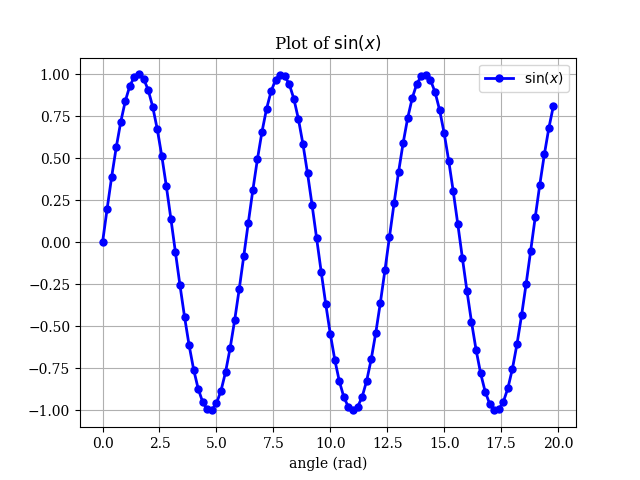
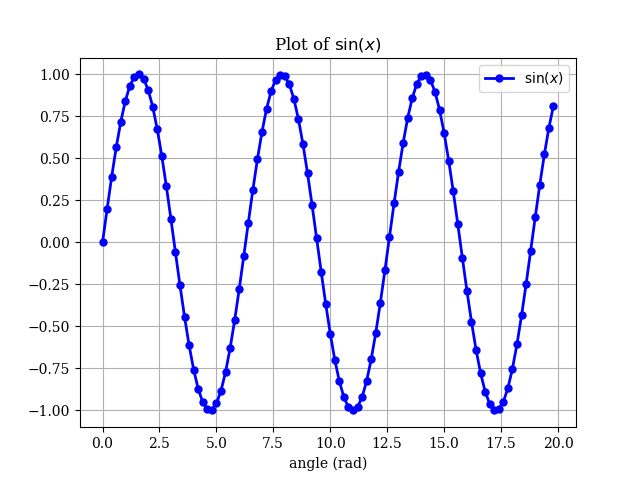
Loading data and plotting a subset. It's a lot of data so don't plot everything at once.

diff --git a/ChapterSeven/windSpeed.py b/ChapterSeven/windSpeed.py
@@ -1,0 +1,22 @@
+#!/usr/bin/env python
+import matplotlib
+import matplotlib.pyplot as plt
+import numpy as np
+matplotlib.rcParams["font.family"] = "Serif"
+matplotlib.rcParams["font.size"] = 10
+matplotlib.rcParams["axes.labelsize"] = 10
+matplotlib.rcParams["xtick.labelsize"] = 10
+matplotlib.rcParams["ytick.labelsize"] = 10
+matplotlib.rcParams["legend.fontsize"] = 10
+fig = plt.figure(facecolor="white")
+ax = fig.add_subplot(1, 1, 1)
+ax.grid()
+ax.set_axisbelow(True)
+ax.set_xlabel("index")
+ax.set_title("TestPlot")
+x = np.array([0.9669400000000000E+05,0.9669500000000000E+05,0.9669600000000000E+05,0.9669700000000000E+05,0.9669800000000000E+05,0.9669900000000000E+05,0.9670000000000000E+05,0.9670100000000000E+05,0.9670200000000000E+05,0.9670300000000000E+05,0.9670400000000000E+05,0.9670500000000000E+05,0.9670600000000000E+05,0.9670700000000000E+05,0.9670800000000000E+05,0.9670900000000000E+05,0.9671000000000000E+05,0.9671100000000000E+05,0.9671200000000000E+05,0.9671300000000000E+05,0.9671400000000000E+05,0.9671500000000000E+05,0.9671600000000000E+05,0.9671700000000000E+05,0.9671800000000000E+05,0.9671900000000000E+05,0.9672000000000000E+05,0.9672100000000000E+05,0.9672200000000000E+05,0.9672300000000000E+05,0.9672400000000000E+05,0.9672500000000000E+05,0.9672600000000000E+05,0.9672700000000000E+05,0.9672800000000000E+05,0.9672900000000000E+05,0.9673000000000000E+05,0.9673100000000000E+05,0.9673200000000000E+05,0.9673300000000000E+05,0.9673400000000000E+05,0.9673500000000000E+05,0.9673600000000000E+05,0.9673700000000000E+05,0.9673800000000000E+05,0.9673900000000000E+05,0.9674000000000000E+05,0.9674100000000000E+05,0.9674200000000000E+05,0.9674300000000000E+05,0.9674400000000000E+05,0.9674500000000000E+05,0.9674600000000000E+05,0.9674700000000000E+05,0.9674800000000000E+05,0.9674900000000000E+05,0.9675000000000000E+05,0.9675100000000000E+05,0.9675200000000000E+05,0.9675300000000000E+05,0.9675400000000000E+05,0.9675500000000000E+05,0.9675600000000000E+05,0.9675700000000000E+05,0.9675800000000000E+05,0.9675900000000000E+05,0.9676000000000000E+05,0.9676100000000000E+05,0.9676200000000000E+05,0.9676300000000000E+05,0.9676400000000000E+05,0.9676500000000000E+05,0.9676600000000000E+05,0.9676700000000000E+05,0.9676800000000000E+05,0.9676900000000000E+05,0.9677000000000000E+05,0.9677100000000000E+05,0.9677200000000000E+05,0.9677300000000000E+05,0.9677400000000000E+05,0.9677500000000000E+05,0.9677600000000000E+05,0.9677700000000000E+05,0.9677800000000000E+05,0.9677900000000000E+05,0.9678000000000000E+05,0.9678100000000000E+05,0.9678200000000000E+05,0.9678300000000000E+05,0.9678400000000000E+05,0.9678500000000000E+05,0.9678600000000000E+05,0.9678700000000000E+05,0.9678800000000000E+05,0.9678900000000000E+05,0.9679000000000000E+05,0.9679100000000000E+05,0.9679200000000000E+05,0.9679300000000000E+05,0.9679400000000000E+05,0.9679500000000000E+05,0.9679600000000000E+05,0.9679700000000000E+05,0.9679800000000000E+05,0.9679900000000000E+05,0.9680000000000000E+05,0.9680100000000000E+05,0.9680200000000000E+05,0.9680300000000000E+05,0.9680400000000000E+05,0.9680500000000000E+05,0.9680600000000000E+05,0.9680700000000000E+05,0.9680800000000000E+05,0.9680900000000000E+05,0.9681000000000000E+05,0.9681100000000000E+05,0.9681200000000000E+05,0.9681300000000000E+05,0.9681400000000000E+05,0.9681500000000000E+05,0.9681600000000000E+05,0.9681700000000000E+05,0.9681800000000000E+05,0.9681900000000000E+05,0.9682000000000000E+05,0.9682100000000000E+05,0.9682200000000000E+05,0.9682300000000000E+05,0.9682400000000000E+05,0.9682500000000000E+05,0.9682600000000000E+05,0.9682700000000000E+05,0.9682800000000000E+05,0.9682900000000000E+05,0.9683000000000000E+05,0.9683100000000000E+05,0.9683200000000000E+05,0.9683300000000000E+05,0.9683400000000000E+05,0.9683500000000000E+05,0.9683600000000000E+05,0.9683700000000000E+05,0.9683800000000000E+05,0.9683900000000000E+05,0.9684000000000000E+05,0.9684100000000000E+05,0.9684200000000000E+05,0.9684300000000000E+05,0.9684400000000000E+05,0.9684500000000000E+05,0.9684600000000000E+05,0.9684700000000000E+05,0.9684800000000000E+05,0.9684900000000000E+05,0.9685000000000000E+05,0.9685100000000000E+05,0.9685200000000000E+05,0.9685300000000000E+05,0.9685400000000000E+05,0.9685500000000000E+05,0.9685600000000000E+05,0.9685700000000000E+05,0.9685800000000000E+05,0.9685900000000000E+05,0.9686000000000000E+05,0.9686100000000000E+05,0.9686200000000000E+05,0.9686300000000000E+05,0.9686400000000000E+05,0.9686500000000000E+05,0.9686600000000000E+05,0.9686700000000000E+05,0.9686800000000000E+05,0.9686900000000000E+05,0.9687000000000000E+05,0.9687100000000000E+05,0.9687200000000000E+05,0.9687300000000000E+05,0.9687400000000000E+05,0.9687500000000000E+05,0.9687600000000000E+05,0.9687700000000000E+05,0.9687800000000000E+05,0.9687900000000000E+05,0.9688000000000000E+05,0.9688100000000000E+05,0.9688200000000000E+05,0.9688300000000000E+05,0.9688400000000000E+05,0.9688500000000000E+05,0.9688600000000000E+05,0.9688700000000000E+05,0.9688800000000000E+05,0.9688900000000000E+05,0.9689000000000000E+05,0.9689100000000000E+05,0.9689200000000000E+05,0.9689300000000000E+05,0.9689400000000000E+05,0.9689500000000000E+05,0.9689600000000000E+05,0.9689700000000000E+05,0.9689800000000000E+05,0.9689900000000000E+05,0.9690000000000000E+05,0.9690100000000000E+05,0.9690200000000000E+05,0.9690300000000000E+05,0.9690400000000000E+05,0.9690500000000000E+05,0.9690600000000000E+05,0.9690700000000000E+05,0.9690800000000000E+05,0.9690900000000000E+05,0.9691000000000000E+05,0.9691100000000000E+05,0.9691200000000000E+05,0.9691300000000000E+05,0.9691400000000000E+05,0.9691500000000000E+05,0.9691600000000000E+05,0.9691700000000000E+05,0.9691800000000000E+05,0.9691900000000000E+05,0.9692000000000000E+05,0.9692100000000000E+05,0.9692200000000000E+05,0.9692300000000000E+05,0.9692400000000000E+05,0.9692500000000000E+05,0.9692600000000000E+05,0.9692700000000000E+05,0.9692800000000000E+05,0.9692900000000000E+05,0.9693000000000000E+05,0.9693100000000000E+05,0.9693200000000000E+05,0.9693300000000000E+05,0.9693400000000000E+05,0.9693500000000000E+05,0.9693600000000000E+05,0.9693700000000000E+05,0.9693800000000000E+05,0.9693900000000000E+05,0.9694000000000000E+05,0.9694100000000000E+05,0.9694200000000000E+05,0.9694300000000000E+05,0.9694400000000000E+05,0.9694500000000000E+05,0.9694600000000000E+05,0.9694700000000000E+05,0.9694800000000000E+05,0.9694900000000000E+05,0.9695000000000000E+05,0.9695100000000000E+05,0.9695200000000000E+05,0.9695300000000000E+05,0.9695400000000000E+05,0.9695500000000000E+05,0.9695600000000000E+05,0.9695700000000000E+05,0.9695800000000000E+05,0.9695900000000000E+05,0.9696000000000000E+05,0.9696100000000000E+05,0.9696200000000000E+05,0.9696300000000000E+05,0.9696400000000000E+05,0.9696500000000000E+05,0.9696600000000000E+05,0.9696700000000000E+05,0.9696800000000000E+05,0.9696900000000000E+05,0.9697000000000000E+05,0.9697100000000000E+05,0.9697200000000000E+05,0.9697300000000000E+05,0.9697400000000000E+05,0.9697500000000000E+05,0.9697600000000000E+05,0.9697700000000000E+05,0.9697800000000000E+05,0.9697900000000000E+05,0.9698000000000000E+05,0.9698100000000000E+05,0.9698200000000000E+05,0.9698300000000000E+05,0.9698400000000000E+05,0.9698500000000000E+05,0.9698600000000000E+05,0.9698700000000000E+05,0.9698800000000000E+05,0.9698900000000000E+05,0.9699000000000000E+05,0.9699100000000000E+05,0.9699200000000000E+05,0.9699300000000000E+05,0.9699400000000000E+05,0.9699500000000000E+05,0.9699600000000000E+05,0.9699700000000000E+05,0.9699800000000000E+05,0.9699900000000000E+05,0.9700000000000000E+05,0.9700100000000000E+05,0.9700200000000000E+05,0.9700300000000000E+05,0.9700400000000000E+05,0.9700500000000000E+05,0.9700600000000000E+05,0.9700700000000000E+05,0.9700800000000000E+05,0.9700900000000000E+05,0.9701000000000000E+05,0.9701100000000000E+05,0.9701200000000000E+05,0.9701300000000000E+05,0.9701400000000000E+05,0.9701500000000000E+05,0.9701600000000000E+05,0.9701700000000000E+05,0.9701800000000000E+05,0.9701900000000000E+05,0.9702000000000000E+05,0.9702100000000000E+05,0.9702200000000000E+05,0.9702300000000000E+05,0.9702400000000000E+05,0.9702500000000000E+05,0.9702600000000000E+05,0.9702700000000000E+05,0.9702800000000000E+05,0.9702900000000000E+05,0.9703000000000000E+05,0.9703100000000000E+05,0.9703200000000000E+05,0.9703300000000000E+05,0.9703400000000000E+05,0.9703500000000000E+05,0.9703600000000000E+05,0.9703700000000000E+05,0.9703800000000000E+05,0.9703900000000000E+05,0.9704000000000000E+05,0.9704100000000000E+05,0.9704200000000000E+05,0.9704300000000000E+05,0.9704400000000000E+05,0.9704500000000000E+05,0.9704600000000000E+05,0.9704700000000000E+05,0.9704800000000000E+05,0.9704900000000000E+05,0.9705000000000000E+05,0.9705100000000000E+05,0.9705200000000000E+05,0.9705300000000000E+05,0.9705400000000000E+05,0.9705500000000000E+05,0.9705600000000000E+05,0.9705700000000000E+05,0.9705800000000000E+05,0.9705900000000000E+05,0.9706000000000000E+05,0.9706100000000000E+05,0.9706200000000000E+05,0.9706300000000000E+05,0.9706400000000000E+05,0.9706500000000000E+05,0.9706600000000000E+05,0.9706700000000000E+05,0.9706800000000000E+05,0.9706900000000000E+05,0.9707000000000000E+05,0.9707100000000000E+05,0.9707200000000000E+05,0.9707300000000000E+05,0.9707400000000000E+05,0.9707500000000000E+05,0.9707600000000000E+05,0.9707700000000000E+05,0.9707800000000000E+05,0.9707900000000000E+05,0.9708000000000000E+05,0.9708100000000000E+05,0.9708200000000000E+05,0.9708300000000000E+05,0.9708400000000000E+05,0.9708500000000000E+05,0.9708600000000000E+05,0.9708700000000000E+05,0.9708800000000000E+05,0.9708900000000000E+05,0.9709000000000000E+05,0.9709100000000000E+05,0.9709200000000000E+05,0.9709300000000000E+05,0.9709400000000000E+05,0.9709500000000000E+05,0.9709600000000000E+05,0.9709700000000000E+05,0.9709800000000000E+05,0.9709900000000000E+05,0.9710000000000000E+05,0.9710100000000000E+05,0.9710200000000000E+05,0.9710300000000000E+05,0.9710400000000000E+05,0.9710500000000000E+05,0.9710600000000000E+05,0.9710700000000000E+05,0.9710800000000000E+05,0.9710900000000000E+05,0.9711000000000000E+05,0.9711100000000000E+05,0.9711200000000000E+05,0.9711300000000000E+05,0.9711400000000000E+05,0.9711500000000000E+05,0.9711600000000000E+05,0.9711700000000000E+05,0.9711800000000000E+05,0.9711900000000000E+05,0.9712000000000000E+05,0.9712100000000000E+05,0.9712200000000000E+05,0.9712300000000000E+05,0.9712400000000000E+05,0.9712500000000000E+05,0.9712600000000000E+05,0.9712700000000000E+05,0.9712800000000000E+05,0.9712900000000000E+05,0.9713000000000000E+05,0.9713100000000000E+05,0.9713200000000000E+05,0.9713300000000000E+05,0.9713400000000000E+05,0.9713500000000000E+05,0.9713600000000000E+05,0.9713700000000000E+05,0.9713800000000000E+05,0.9713900000000000E+05,0.9714000000000000E+05,0.9714100000000000E+05,0.9714200000000000E+05,0.9714300000000000E+05,0.9714400000000000E+05,0.9714500000000000E+05,0.9714600000000000E+05,0.9714700000000000E+05,0.9714800000000000E+05,0.9714900000000000E+05,0.9715000000000000E+05,0.9715100000000000E+05,0.9715200000000000E+05,0.9715300000000000E+05,0.9715400000000000E+05,0.9715500000000000E+05,0.9715600000000000E+05,0.9715700000000000E+05,0.9715800000000000E+05,0.9715900000000000E+05,0.9716000000000000E+05,0.9716100000000000E+05,0.9716200000000000E+05,0.9716300000000000E+05,0.9716400000000000E+05,0.9716500000000000E+05,0.9716600000000000E+05,0.9716700000000000E+05,0.9716800000000000E+05,0.9716900000000000E+05,0.9717000000000000E+05,0.9717100000000000E+05,0.9717200000000000E+05,0.9717300000000000E+05,0.9717400000000000E+05,0.9717500000000000E+05,0.9717600000000000E+05,0.9717700000000000E+05,0.9717800000000000E+05,0.9717900000000000E+05,0.9718000000000000E+05,0.9718100000000000E+05,0.9718200000000000E+05,0.9718300000000000E+05,0.9718400000000000E+05,0.9718500000000000E+05,0.9718600000000000E+05,0.9718700000000000E+05,0.9718800000000000E+05,0.9718900000000000E+05,0.9719000000000000E+05,0.9719100000000000E+05,0.9719200000000000E+05,0.9719300000000000E+05,0.9719400000000000E+05,0.9719500000000000E+05,0.9719600000000000E+05,0.9719700000000000E+05,0.9719800000000000E+05,0.9719900000000000E+05,0.9720000000000000E+05,0.9720100000000000E+05,0.9720200000000000E+05,0.9720300000000000E+05,0.9720400000000000E+05,0.9720500000000000E+05,0.9720600000000000E+05,0.9720700000000000E+05,0.9720800000000000E+05,0.9720900000000000E+05,0.9721000000000000E+05,0.9721100000000000E+05,0.9721200000000000E+05,0.9721300000000000E+05,0.9721400000000000E+05,0.9721500000000000E+05,0.9721600000000000E+05,0.9721700000000000E+05,0.9721800000000000E+05,0.9721900000000000E+05,0.9722000000000000E+05,0.9722100000000000E+05,0.9722200000000000E+05,0.9722300000000000E+05,0.9722400000000000E+05,0.9722500000000000E+05,0.9722600000000000E+05,0.9722700000000000E+05,0.9722800000000000E+05,0.9722900000000000E+05,0.9723000000000000E+05,0.9723100000000000E+05,0.9723200000000000E+05,0.9723300000000000E+05,0.9723400000000000E+05,0.9723500000000000E+05,0.9723600000000000E+05,0.9723700000000000E+05,0.9723800000000000E+05,0.9723900000000000E+05,0.9724000000000000E+05,0.9724100000000000E+05,0.9724200000000000E+05,0.9724300000000000E+05,0.9724400000000000E+05,0.9724500000000000E+05,0.9724600000000000E+05,0.9724700000000000E+05,0.9724800000000000E+05,0.9724900000000000E+05,0.9725000000000000E+05,0.9725100000000000E+05,0.9725200000000000E+05,0.9725300000000000E+05,0.9725400000000000E+05,0.9725500000000000E+05,0.9725600000000000E+05,0.9725700000000000E+05,0.9725800000000000E+05,0.9725900000000000E+05,0.9726000000000000E+05,0.9726100000000000E+05,0.9726200000000000E+05,0.9726300000000000E+05,0.9726400000000000E+05,0.9726500000000000E+05,0.9726600000000000E+05,0.9726700000000000E+05,0.9726800000000000E+05,0.9726900000000000E+05,0.9727000000000000E+05,0.9727100000000000E+05,0.9727200000000000E+05,0.9727300000000000E+05,0.9727400000000000E+05,0.9727500000000000E+05,0.9727600000000000E+05,0.9727700000000000E+05,0.9727800000000000E+05,0.9727900000000000E+05,0.9728000000000000E+05,0.9728100000000000E+05,0.9728200000000000E+05,0.9728300000000000E+05,0.9728400000000000E+05,0.9728500000000000E+05,0.9728600000000000E+05,0.9728700000000000E+05,0.9728800000000000E+05,0.9728900000000000E+05,0.9729000000000000E+05,0.9729100000000000E+05,0.9729200000000000E+05,0.9729300000000000E+05,0.9729400000000000E+05,0.9729500000000000E+05,0.9729600000000000E+05,0.9729700000000000E+05,0.9729800000000000E+05,0.9729900000000000E+05,0.9730000000000000E+05,0.9730100000000000E+05,0.9730200000000000E+05,0.9730300000000000E+05,0.9730400000000000E+05,0.9730500000000000E+05,0.9730600000000000E+05,0.9730700000000000E+05,0.9730800000000000E+05,0.9730900000000000E+05,0.9731000000000000E+05,0.9731100000000000E+05,0.9731200000000000E+05,0.9731300000000000E+05,0.9731400000000000E+05,0.9731500000000000E+05,0.9731600000000000E+05,0.9731700000000000E+05,0.9731800000000000E+05,0.9731900000000000E+05,0.9732000000000000E+05,0.9732100000000000E+05,0.9732200000000000E+05,0.9732300000000000E+05,0.9732400000000000E+05,0.9732500000000000E+05,0.9732600000000000E+05,0.9732700000000000E+05,0.9732800000000000E+05,0.9732900000000000E+05,0.9733000000000000E+05,0.9733100000000000E+05,0.9733200000000000E+05,0.9733300000000000E+05,0.9733400000000000E+05,0.9733500000000000E+05,0.9733600000000000E+05,0.9733700000000000E+05,0.9733800000000000E+05,0.9733900000000000E+05,0.9734000000000000E+05,0.9734100000000000E+05,0.9734200000000000E+05,0.9734300000000000E+05,0.9734400000000000E+05,0.9734500000000000E+05,0.9734600000000000E+05,0.9734700000000000E+05,0.9734800000000000E+05,0.9734900000000000E+05,0.9735000000000000E+05,0.9735100000000000E+05,0.9735200000000000E+05,0.9735300000000000E+05,0.9735400000000000E+05,0.9735500000000000E+05,0.9735600000000000E+05,0.9735700000000000E+05,0.9735800000000000E+05,0.9735900000000000E+05,0.9736000000000000E+05,0.9736100000000000E+05,0.9736200000000000E+05,0.9736300000000000E+05,0.9736400000000000E+05,0.9736500000000000E+05,0.9736600000000000E+05,0.9736700000000000E+05,0.9736800000000000E+05,0.9736900000000000E+05,0.9737000000000000E+05,0.9737100000000000E+05,0.9737200000000000E+05,0.9737300000000000E+05,0.9737400000000000E+05,0.9737500000000000E+05,0.9737600000000000E+05,0.9737700000000000E+05,0.9737800000000000E+05,0.9737900000000000E+05,0.9738000000000000E+05,0.9738100000000000E+05,0.9738200000000000E+05,0.9738300000000000E+05,0.9738400000000000E+05,0.9738500000000000E+05,0.9738600000000000E+05,0.9738700000000000E+05,0.9738800000000000E+05,0.9738900000000000E+05,0.9739000000000000E+05,0.9739100000000000E+05,0.9739200000000000E+05,0.9739300000000000E+05,0.9739400000000000E+05,0.9739500000000000E+05,0.9739600000000000E+05,0.9739700000000000E+05,0.9739800000000000E+05,0.9739900000000000E+05,0.9740000000000000E+05,0.9740100000000000E+05,0.9740200000000000E+05,0.9740300000000000E+05,0.9740400000000000E+05,0.9740500000000000E+05,0.9740600000000000E+05,0.9740700000000000E+05,0.9740800000000000E+05,0.9740900000000000E+05,0.9741000000000000E+05,0.9741100000000000E+05,0.9741200000000000E+05,0.9741300000000000E+05,0.9741400000000000E+05,0.9741500000000000E+05,0.9741600000000000E+05,0.9741700000000000E+05,0.9741800000000000E+05,0.9741900000000000E+05,0.9742000000000000E+05,0.9742100000000000E+05,0.9742200000000000E+05,0.9742300000000000E+05,0.9742400000000000E+05,0.9742500000000000E+05,0.9742600000000000E+05,0.9742700000000000E+05,0.9742800000000000E+05,0.9742900000000000E+05,0.9743000000000000E+05,0.9743100000000000E+05,0.9743200000000000E+05,0.9743300000000000E+05,0.9743400000000000E+05,0.9743500000000000E+05,0.9743600000000000E+05])
+y = np.array([0.7300000190734863E+01,0.7099999904632568E+01,0.7599999904632568E+01,0.7000000000000000E+01,0.6800000190734863E+01,0.6199999809265137E+01,0.8199999809265137E+01,0.8500000000000000E+01,0.8600000381469727E+01,0.7400000095367432E+01,0.6099999904632568E+01,0.6000000000000000E+01,0.6699999809265137E+01,0.6599999904632568E+01,0.6400000095367432E+01,0.6900000095367432E+01,0.5400000095367432E+01,0.6099999904632568E+01,0.6000000000000000E+01,0.6300000190734863E+01,0.7199999809265137E+01,0.6199999809265137E+01,0.5900000095367432E+01,0.5800000190734863E+01,0.7099999904632568E+01,0.6800000190734863E+01,0.7300000190734863E+01,0.5199999809265137E+01,0.6500000000000000E+01,0.8300000190734863E+01,0.7900000095367432E+01,0.7599999904632568E+01,0.7599999904632568E+01,0.8500000000000000E+01,0.9000000000000000E+01,0.9699999809265137E+01,0.9100000381469727E+01,0.9000000000000000E+01,0.8899999618530273E+01,0.9600000381469727E+01,0.8800000190734863E+01,0.8899999618530273E+01,0.9000000000000000E+01,0.9199999809265137E+01,0.8399999618530273E+01,0.7300000190734863E+01,0.6099999904632568E+01,0.5800000190734863E+01,0.5199999809265137E+01,0.4199999809265137E+01,0.3200000047683716E+01,0.2599999904632568E+01,0.3400000095367432E+01,0.3900000095367432E+01,0.3700000047683716E+01,0.4699999809265137E+01,0.4199999809265137E+01,0.4599999904632568E+01,0.4199999809265137E+01,0.3200000047683716E+01,0.1799999952316284E+01,0.1299999952316284E+01,0.1399999976158142E+01,0.1100000023841858E+01,0.2299999952316284E+01,0.2400000095367432E+01,0.2400000095367432E+01,0.2599999904632568E+01,0.1799999952316284E+01,0.3000000000000000E+01,0.3500000000000000E+01,0.2799999952316284E+01,0.2400000095367432E+01,0.2200000047683716E+01,0.1299999952316284E+01,0.3900000095367432E+01,0.3700000047683716E+01,0.3500000000000000E+01,0.2799999952316284E+01,0.4300000190734863E+01,0.4699999809265137E+01,0.5099999904632568E+01,0.5699999809265137E+01,0.4000000000000000E+01,0.5900000095367432E+01,0.5400000095367432E+01,0.4599999904632568E+01,0.3099999904632568E+01,0.4199999809265137E+01,0.5000000000000000E+01,0.5099999904632568E+01,0.5199999809265137E+01,0.5599999904632568E+01,0.5099999904632568E+01,0.4699999809265137E+01,0.4400000095367432E+01,0.4400000095367432E+01,0.3500000000000000E+01,0.4599999904632568E+01,0.4300000190734863E+01,0.4000000000000000E+01,0.3599999904632568E+01,0.3200000047683716E+01,0.2700000047683716E+01,0.2000000000000000E+01,0.1799999952316284E+01,0.1799999952316284E+01,0.2400000095367432E+01,0.2400000095367432E+01,0.3400000095367432E+01,0.2700000047683716E+01,0.3200000047683716E+01,0.2900000095367432E+01,0.3500000000000000E+01,0.2500000000000000E+01,0.2700000047683716E+01,0.3299999952316284E+01,0.2599999904632568E+01,0.3299999952316284E+01,0.2700000047683716E+01,0.2000000000000000E+01,0.3500000000000000E+01,0.1899999976158142E+01,0.3700000047683716E+01,0.3400000095367432E+01,0.2900000095367432E+01,0.2900000095367432E+01,0.3500000000000000E+01,0.3799999952316284E+01,0.4000000000000000E+01,0.2900000095367432E+01,0.5000000000000000E+01,0.5099999904632568E+01,0.4599999904632568E+01,0.6199999809265137E+01,0.6199999809265137E+01,0.6400000095367432E+01,0.5599999904632568E+01,0.4099999904632568E+01,0.6800000190734863E+01,0.8300000190734863E+01,0.9000000000000000E+01,0.9300000190734863E+01,0.8500000000000000E+01,0.7900000095367432E+01,0.7300000190734863E+01,0.6099999904632568E+01,0.1160000038146973E+02,0.1300000000000000E+02,0.1439999961853027E+02,0.1360000038146973E+02,0.1269999980926514E+02,0.1300000000000000E+02,0.1289999961853027E+02,0.1260000038146973E+02,0.1300000000000000E+02,0.1260000038146973E+02,0.1269999980926514E+02,0.1260000038146973E+02,0.1360000038146973E+02,0.1319999980926514E+02,0.1250000000000000E+02,0.1330000019073486E+02,0.1330000019073486E+02,0.1319999980926514E+02,0.1380000019073486E+02,0.1289999961853027E+02,0.1280000019073486E+02,0.1280000019073486E+02,0.1280000019073486E+02,0.1289999961853027E+02,0.1180000019073486E+02,0.1169999980926514E+02,0.1069999980926514E+02,0.1130000019073486E+02,0.9199999809265137E+01,0.1030000019073486E+02,0.8600000381469727E+01,0.9500000000000000E+01,0.1050000000000000E+02,0.9300000190734863E+01,0.7900000095367432E+01,0.9199999809265137E+01,0.8699999809265137E+01,0.9199999809265137E+01,0.8899999618530273E+01,0.9199999809265137E+01,0.8199999809265137E+01,0.8000000000000000E+01,0.7699999809265137E+01,0.7900000095367432E+01,0.8600000381469727E+01,0.7500000000000000E+01,0.6400000095367432E+01,0.6699999809265137E+01,0.4400000095367432E+01,0.5400000095367432E+01,0.5400000095367432E+01,0.4800000190734863E+01,0.5599999904632568E+01,0.7000000000000000E+01,0.7900000095367432E+01,0.7199999809265137E+01,0.6699999809265137E+01,0.7199999809265137E+01,0.4800000190734863E+01,0.4500000000000000E+01,0.5000000000000000E+01,0.6599999904632568E+01,0.6400000095367432E+01,0.5000000000000000E+01,0.5699999809265137E+01,0.5699999809265137E+01,0.5599999904632568E+01,0.5699999809265137E+01,0.5800000190734863E+01,0.5900000095367432E+01,0.4599999904632568E+01,0.5099999904632568E+01,0.7900000095367432E+01,0.8000000000000000E+01,0.9000000000000000E+01,0.7900000095367432E+01,0.5500000000000000E+01,0.5800000190734863E+01,0.3599999904632568E+01,0.1000000000000000E+01,0.5800000190734863E+01,0.6000000000000000E+01,0.7000000000000000E+01,0.7599999904632568E+01,0.7800000190734863E+01,0.7300000190734863E+01,0.6400000095367432E+01,0.7000000000000000E+01,0.6800000190734863E+01,0.6099999904632568E+01,0.6400000095367432E+01,0.6900000095367432E+01,0.7800000190734863E+01,0.8800000190734863E+01,0.9199999809265137E+01,0.8399999618530273E+01,0.8600000381469727E+01,0.8600000381469727E+01,0.8199999809265137E+01,0.9399999618530273E+01,0.1139999961853027E+02,0.9600000381469727E+01,0.1100000000000000E+02,0.1130000019073486E+02,0.1069999980926514E+02,0.1030000019073486E+02,0.9899999618530273E+01,0.1010000038146973E+02,0.9399999618530273E+01,0.9000000000000000E+01,0.8600000381469727E+01,0.7900000095367432E+01,0.7699999809265137E+01,0.7900000095367432E+01,0.7599999904632568E+01,0.7800000190734863E+01,0.8500000000000000E+01,0.8199999809265137E+01,0.8399999618530273E+01,0.1060000038146973E+02,0.9000000000000000E+01,0.7699999809265137E+01,0.7300000190734863E+01,0.6599999904632568E+01,0.8699999809265137E+01,0.8000000000000000E+01,0.7300000190734863E+01,0.7800000190734863E+01,0.7900000095367432E+01,0.8600000381469727E+01,0.8000000000000000E+01,0.7800000190734863E+01,0.7500000000000000E+01,0.6599999904632568E+01,0.5900000095367432E+01,0.5400000095367432E+01,0.3099999904632568E+01,0.4099999904632568E+01,0.3200000047683716E+01,0.4199999809265137E+01,0.4300000190734863E+01,0.6800000190734863E+01,0.7000000000000000E+01,0.9199999809265137E+01,0.8100000381469727E+01,0.7699999809265137E+01,0.7000000000000000E+01,0.8300000190734863E+01,0.7400000095367432E+01,0.7800000190734863E+01,0.1019999980926514E+02,0.8899999618530273E+01,0.7900000095367432E+01,0.7099999904632568E+01,0.8600000381469727E+01,0.8600000381469727E+01,0.8300000190734863E+01,0.8600000381469727E+01,0.8000000000000000E+01,0.8199999809265137E+01,0.7500000000000000E+01,0.6599999904632568E+01,0.7199999809265137E+01,0.6800000190734863E+01,0.8199999809265137E+01,0.7800000190734863E+01,0.7599999904632568E+01,0.9000000000000000E+01,0.8300000190734863E+01,0.7900000095367432E+01,0.8100000381469727E+01,0.7900000095367432E+01,0.8500000000000000E+01,0.9699999809265137E+01,0.1019999980926514E+02,0.9699999809265137E+01,0.9600000381469727E+01,0.8100000381469727E+01,0.7400000095367432E+01,0.7000000000000000E+01,0.6500000000000000E+01,0.7199999809265137E+01,0.8300000190734863E+01,0.7800000190734863E+01,0.7500000000000000E+01,0.7599999904632568E+01,0.7599999904632568E+01,0.7500000000000000E+01,0.7199999809265137E+01,0.7500000000000000E+01,0.7699999809265137E+01,0.8699999809265137E+01,0.8199999809265137E+01,0.7900000095367432E+01,0.7500000000000000E+01,0.7199999809265137E+01,0.7300000190734863E+01,0.6400000095367432E+01,0.6900000095367432E+01,0.6300000190734863E+01,0.6800000190734863E+01,0.7000000000000000E+01,0.7300000190734863E+01,0.6900000095367432E+01,0.6800000190734863E+01,0.5500000000000000E+01,0.5599999904632568E+01,0.5400000095367432E+01,0.6199999809265137E+01,0.6500000000000000E+01,0.7300000190734863E+01,0.7400000095367432E+01,0.8399999618530273E+01,0.8699999809265137E+01,0.8699999809265137E+01,0.8699999809265137E+01,0.8199999809265137E+01,0.8199999809265137E+01,0.9300000190734863E+01,0.9399999618530273E+01,0.9600000381469727E+01,0.9600000381469727E+01,0.8800000190734863E+01,0.8300000190734863E+01,0.8000000000000000E+01,0.7500000000000000E+01,0.6699999809265137E+01,0.7300000190734863E+01,0.5300000190734863E+01,0.7199999809265137E+01,0.5500000000000000E+01,0.5099999904632568E+01,0.6900000095367432E+01,0.5800000190734863E+01,0.5800000190734863E+01,0.4300000190734863E+01,0.4900000095367432E+01,0.5900000095367432E+01,0.5800000190734863E+01,0.6199999809265137E+01,0.7199999809265137E+01,0.8300000190734863E+01,0.8500000000000000E+01,0.7699999809265137E+01,0.7500000000000000E+01,0.7800000190734863E+01,0.7300000190734863E+01,0.7800000190734863E+01,0.7900000095367432E+01,0.8300000190734863E+01,0.7000000000000000E+01,0.7099999904632568E+01,0.6599999904632568E+01,0.6000000000000000E+01,0.6300000190734863E+01,0.6699999809265137E+01,0.6800000190734863E+01,0.6199999809265137E+01,0.5699999809265137E+01,0.5800000190734863E+01,0.5400000095367432E+01,0.6300000190734863E+01,0.6599999904632568E+01,0.6699999809265137E+01,0.6099999904632568E+01,0.4900000095367432E+01,0.5300000190734863E+01,0.6000000000000000E+01,0.6500000000000000E+01,0.7300000190734863E+01,0.7900000095367432E+01,0.6800000190734863E+01,0.5800000190734863E+01,0.5300000190734863E+01,0.5400000095367432E+01,0.5599999904632568E+01,0.4900000095367432E+01,0.4900000095367432E+01,0.4800000190734863E+01,0.4800000190734863E+01,0.5199999809265137E+01,0.4800000190734863E+01,0.5199999809265137E+01,0.5000000000000000E+01,0.5400000095367432E+01,0.4500000000000000E+01,0.4500000000000000E+01,0.5000000000000000E+01,0.4599999904632568E+01,0.5199999809265137E+01,0.4599999904632568E+01,0.5099999904632568E+01,0.6400000095367432E+01,0.6599999904632568E+01,0.6699999809265137E+01,0.7300000190734863E+01,0.7099999904632568E+01,0.7199999809265137E+01,0.8300000190734863E+01,0.7599999904632568E+01,0.6900000095367432E+01,0.6800000190734863E+01,0.7400000095367432E+01,0.7599999904632568E+01,0.6900000095367432E+01,0.9000000000000000E+01,0.9000000000000000E+01,0.8500000000000000E+01,0.8100000381469727E+01,0.8000000000000000E+01,0.8800000190734863E+01,0.7900000095367432E+01,0.6599999904632568E+01,0.5599999904632568E+01,0.5699999809265137E+01,0.6099999904632568E+01,0.5400000095367432E+01,0.4699999809265137E+01,0.4199999809265137E+01,0.5000000000000000E+01,0.6500000000000000E+01,0.6800000190734863E+01,0.7500000000000000E+01,0.7500000000000000E+01,0.7400000095367432E+01,0.8100000381469727E+01,0.7800000190734863E+01,0.7800000190734863E+01,0.7900000095367432E+01,0.7300000190734863E+01,0.7300000190734863E+01,0.6300000190734863E+01,0.6400000095367432E+01,0.7300000190734863E+01,0.7800000190734863E+01,0.8199999809265137E+01,0.9600000381469727E+01,0.1030000019073486E+02,0.1050000000000000E+02,0.1010000038146973E+02,0.1019999980926514E+02,0.1039999961853027E+02,0.1030000019073486E+02,0.1039999961853027E+02,0.1100000000000000E+02,0.1110000038146973E+02,0.1150000000000000E+02,0.1110000038146973E+02,0.1160000038146973E+02,0.1069999980926514E+02,0.1030000019073486E+02,0.1030000019073486E+02,0.9699999809265137E+01,0.9500000000000000E+01,0.8699999809265137E+01,0.9199999809265137E+01,0.9600000381469727E+01,0.8800000190734863E+01,0.9199999809265137E+01,0.9100000381469727E+01,0.8699999809265137E+01,0.7099999904632568E+01,0.7300000190734863E+01,0.7300000190734863E+01,0.8500000000000000E+01,0.8800000190734863E+01,0.8899999618530273E+01,0.9199999809265137E+01,0.1030000019073486E+02,0.1010000038146973E+02,0.1050000000000000E+02,0.1119999980926514E+02,0.1310000038146973E+02,0.1319999980926514E+02,0.1219999980926514E+02,0.1119999980926514E+02,0.1410000038146973E+02,0.1380000019073486E+02,0.1510000038146973E+02,0.1460000038146973E+02,0.1569999980926514E+02,0.1530000019073486E+02,0.1519999980926514E+02,0.1450000000000000E+02,0.1410000038146973E+02,0.1469999980926514E+02,0.1550000000000000E+02,0.1530000019073486E+02,0.1469999980926514E+02,0.1400000000000000E+02,0.1360000038146973E+02,0.1339999961853027E+02,0.1310000038146973E+02,0.1289999961853027E+02,0.1230000019073486E+02,0.1250000000000000E+02,0.1200000000000000E+02,0.1200000000000000E+02,0.1189999961853027E+02,0.1089999961853027E+02,0.1100000000000000E+02,0.1019999980926514E+02,0.9300000190734863E+01,0.8800000190734863E+01,0.8399999618530273E+01,0.8500000000000000E+01,0.7599999904632568E+01,0.6500000000000000E+01,0.6300000190734863E+01,0.6000000000000000E+01,0.5400000095367432E+01,0.5000000000000000E+01,0.3500000000000000E+01,0.3799999952316284E+01,0.3299999952316284E+01,0.2099999904632568E+01,0.2299999952316284E+01,0.1700000047683716E+01,0.1799999952316284E+01,0.1600000023841858E+01,0.2000000000000000E+01,0.2900000095367432E+01,0.3200000047683716E+01,0.3500000000000000E+01,0.4099999904632568E+01,0.3200000047683716E+01,0.3200000047683716E+01,0.3099999904632568E+01,0.3299999952316284E+01,0.4300000190734863E+01,0.5099999904632568E+01,0.5500000000000000E+01,0.6300000190734863E+01,0.6000000000000000E+01,0.7300000190734863E+01,0.8199999809265137E+01,0.8600000381469727E+01,0.9100000381469727E+01,0.9600000381469727E+01,0.9500000000000000E+01,0.9800000190734863E+01,0.9899999618530273E+01,0.1080000019073486E+02,0.1080000019073486E+02,0.1150000000000000E+02,0.1110000038146973E+02,0.1080000019073486E+02,0.1100000000000000E+02,0.1000000000000000E+02,0.9199999809265137E+01,0.6400000095367432E+01,0.7000000000000000E+01,0.7300000190734863E+01,0.5199999809265137E+01,0.6400000095367432E+01,0.6699999809265137E+01,0.5599999904632568E+01,0.5599999904632568E+01,0.5300000190734863E+01,0.5300000190734863E+01,0.4500000000000000E+01,0.4099999904632568E+01,0.3000000000000000E+01,0.2000000000000000E+01,0.1500000000000000E+01,0.2099999904632568E+01,0.1500000000000000E+01,0.1899999976158142E+01,0.1899999976158142E+01,0.8500000000000000E+01,0.9800000190734863E+01,0.9500000000000000E+01,0.9199999809265137E+01,0.9600000381469727E+01,0.9600000381469727E+01,0.9699999809265137E+01,0.9199999809265137E+01,0.8399999618530273E+01,0.9000000000000000E+01,0.8899999618530273E+01,0.8300000190734863E+01,0.7099999904632568E+01,0.7300000190734863E+01,0.7900000095367432E+01,0.8100000381469727E+01,0.7900000095367432E+01,0.8100000381469727E+01,0.8500000000000000E+01,0.9199999809265137E+01,0.9199999809265137E+01,0.9199999809265137E+01,0.9500000000000000E+01,0.8399999618530273E+01,0.9800000190734863E+01,0.9399999618530273E+01,0.9399999618530273E+01,0.1010000038146973E+02,0.9399999618530273E+01,0.9500000000000000E+01,0.9800000190734863E+01,0.9699999809265137E+01,0.1010000038146973E+02,0.1069999980926514E+02,0.1019999980926514E+02,0.9899999618530273E+01,0.9699999809265137E+01,0.1000000000000000E+02,0.8899999618530273E+01,0.9399999618530273E+01,0.9399999618530273E+01,0.9399999618530273E+01,0.9800000190734863E+01,0.6099999904632568E+01,0.8199999809265137E+01,0.8600000381469727E+01,0.9199999809265137E+01,0.1010000038146973E+02,0.9000000000000000E+01,0.1250000000000000E+02,0.1189999961853027E+02,0.1050000000000000E+02,0.1050000000000000E+02,0.1050000000000000E+02,0.9000000000000000E+01,0.1019999980926514E+02,0.9699999809265137E+01,0.9199999809265137E+01,0.8600000381469727E+01,0.7699999809265137E+01,0.7800000190734863E+01,0.6800000190734863E+01,0.7000000000000000E+01,0.7400000095367432E+01,0.8300000190734863E+01,0.8899999618530273E+01,0.9199999809265137E+01,0.8600000381469727E+01,0.9399999618530273E+01,0.8000000000000000E+01,0.8100000381469727E+01,0.7900000095367432E+01,0.7199999809265137E+01,0.6699999809265137E+01,0.7199999809265137E+01,0.6300000190734863E+01,0.7199999809265137E+01,0.7599999904632568E+01,0.8399999618530273E+01,0.8399999618530273E+01,0.8800000190734863E+01,0.8800000190734863E+01,0.9000000000000000E+01,0.9199999809265137E+01,0.8899999618530273E+01,0.9199999809265137E+01,0.8600000381469727E+01,0.8000000000000000E+01,0.8199999809265137E+01,0.7400000095367432E+01,0.8500000000000000E+01,0.6900000095367432E+01,0.6199999809265137E+01,0.6000000000000000E+01,0.3599999904632568E+01,0.3400000095367432E+01,0.2900000095367432E+01,0.1700000047683716E+01,0.1200000047683716E+01,0.1600000023841858E+01,0.8999999761581421E+00,0.1399999976158142E+01,0.1399999976158142E+01,0.1899999976158142E+01,0.1700000047683716E+01,0.2000000000000000E+01,0.2200000047683716E+01,0.2000000000000000E+01,0.2400000095367432E+01,0.2900000095367432E+01,0.1899999976158142E+01,0.3200000047683716E+01,0.2200000047683716E+01,0.1500000000000000E+01,0.1700000047683716E+01,0.1899999976158142E+01,0.1000000000000000E+01,0.3700000047683716E+01,0.2299999952316284E+01,0.2400000095367432E+01,0.2500000000000000E+01,0.2700000047683716E+01,0.1700000047683716E+01,0.3500000000000000E+01,0.4000000000000000E+01,0.2700000047683716E+01,0.2099999904632568E+01])
+ax.plot(x,y,"b-o",linewidth=2,markersize=5,label="windSpeed")
+ax.legend(loc="best")
+plt.savefig("windspeed.png")
+

diff --git a/ChapterSeven/sinx.py b/ChapterSeven/sinx.py
@@ -13,10 +13,10 @@ ax = fig.add_subplot(1, 1, 1)
 ax.grid()
 ax.set_axisbelow(True)
 ax.set_xlabel("angle (rad)")
-ax.set_title("Plot of $\sin(x)$")
+ax.set_title("Plot of $\\sin(x)$")
 x = np.array([0.0000000000000000E+00,0.2000000000000000E+00,0.4000000000000000E+00,0.6000000000000000E+00,0.8000000000000000E+00,0.1000000000000000E+01,0.1200000000000000E+01,0.1400000000000000E+01,0.1600000000000000E+01,0.1800000000000000E+01,0.2000000000000000E+01,0.2200000000000000E+01,0.2400000000000000E+01,0.2600000000000000E+01,0.2800000000000000E+01,0.3000000000000000E+01,0.3200000000000000E+01,0.3400000000000000E+01,0.3600000000000000E+01,0.3800000000000000E+01,0.4000000000000000E+01,0.4200000000000000E+01,0.4400000000000000E+01,0.4600000000000000E+01,0.4800000000000000E+01,0.5000000000000000E+01,0.5200000000000000E+01,0.5400000000000000E+01,0.5600000000000000E+01,0.5800000000000000E+01,0.6000000000000000E+01,0.6200000000000000E+01,0.6400000000000000E+01,0.6600000000000000E+01,0.6800000000000000E+01,0.7000000000000000E+01,0.7200000000000000E+01,0.7400000000000000E+01,0.7600000000000000E+01,0.7800000000000000E+01,0.8000000000000000E+01,0.8199999999999999E+01,0.8400000000000000E+01,0.8600000000000000E+01,0.8800000000000001E+01,0.9000000000000000E+01,0.9199999999999999E+01,0.9400000000000000E+01,0.9600000000000000E+01,0.9800000000000001E+01,0.1000000000000000E+02,0.1020000000000000E+02,0.1040000000000000E+02,0.1060000000000000E+02,0.1080000000000000E+02,0.1100000000000000E+02,0.1120000000000000E+02,0.1140000000000000E+02,0.1160000000000000E+02,0.1180000000000000E+02,0.1200000000000000E+02,0.1220000000000000E+02,0.1240000000000000E+02,0.1260000000000000E+02,0.1280000000000000E+02,0.1300000000000000E+02,0.1320000000000000E+02,0.1340000000000000E+02,0.1360000000000000E+02,0.1380000000000000E+02,0.1400000000000000E+02,0.1420000000000000E+02,0.1440000000000000E+02,0.1460000000000000E+02,0.1480000000000000E+02,0.1500000000000000E+02,0.1520000000000000E+02,0.1540000000000000E+02,0.1560000000000000E+02,0.1580000000000000E+02,0.1600000000000000E+02,0.1620000000000000E+02,0.1640000000000000E+02,0.1660000000000000E+02,0.1680000000000000E+02,0.1700000000000000E+02,0.1720000000000000E+02,0.1740000000000000E+02,0.1760000000000000E+02,0.1780000000000000E+02,0.1800000000000000E+02,0.1820000000000000E+02,0.1840000000000000E+02,0.1860000000000000E+02,0.1880000000000000E+02,0.1900000000000000E+02,0.1920000000000000E+02,0.1940000000000000E+02,0.1960000000000000E+02,0.1980000000000000E+02])
 y = np.array([0.0000000000000000E+00,0.1986693307950612E+00,0.3894183423086505E+00,0.5646424733950354E+00,0.7173560908995228E+00,0.8414709848078965E+00,0.9320390859672263E+00,0.9854497299884601E+00,0.9995736030415051E+00,0.9738476308781951E+00,0.9092974268256817E+00,0.8084964038195901E+00,0.6754631805511510E+00,0.5155013718214642E+00,0.3349881501559051E+00,0.1411200080598672E+00,-0.5837414342758009E-01,-0.2555411020268312E+00,-0.4425204432948525E+00,-0.6118578909427189E+00,-0.7568024953079282E+00,-0.8715757724135882E+00,-0.9516020738895160E+00,-0.9936910036334644E+00,-0.9961646088358407E+00,-0.9589242746631385E+00,-0.8834546557201531E+00,-0.7727644875559871E+00,-0.6312666378723216E+00,-0.4646021794137574E+00,-0.2794154981989259E+00,-0.8308940281749640E-01,0.1165492048504936E+00,0.3115413635133779E+00,0.4941133511386082E+00,0.6569865987187891E+00,0.7936678638491531E+00,0.8987080958116269E+00,0.9679196720314863E+00,0.9985433453746050E+00,0.9893582466233818E+00,0.9407305566797731E+00,0.8545989080882804E+00,0.7343970978741133E+00,0.5849171928917617E+00,0.4121184852417566E+00,0.2228899141002476E+00,0.2477542545335776E-01,-0.1743267812229796E+00,-0.3664791292519284E+00,-0.5440211108893698E+00,-0.6998746875935423E+00,-0.8278264690856537E+00,-0.9227754216128066E+00,-0.9809362300664916E+00,-0.9999902065507035E+00,-0.9791777291513174E+00,-0.9193285256646757E+00,-0.8228285949687089E+00,-0.6935250847771224E+00,-0.5365729180004349E+00,-0.3582292822368287E+00,-0.1656041754483094E+00,0.3362304722113670E-01,0.2315098251015389E+00,0.4201670368266409E+00,0.5920735147072230E+00,0.7403758899524486E+00,0.8591618148564958E+00,0.9436956694441048E+00,0.9906073556948704E+00,0.9980266527163617E+00,0.9656577765492774E+00,0.8947911721405042E+00,0.7882520673753163E+00,0.6502878401571168E+00,0.4863986888537997E+00,0.3031183567457023E+00,0.1077536522994441E+00,-0.9190685022768164E-01,-0.2879033166650653E+00,-0.4724219863984662E+00,-0.6381066823479474E+00,-0.7783520785342984E+00,-0.8875670335815046E+00,-0.9613974918795568E+00,-0.9969000660415961E+00,-0.9926593804706332E+00,-0.9488444979181240E+00,-0.8672021794855813E+00,-0.7509872467716761E+00,-0.6048328224062841E+00,-0.4345656220718968E+00,-0.2469736617366209E+00,-0.4953564087836742E-01,0.1498772096629523E+00,0.3433149288198954E+00,0.5230657651576964E+00,0.6819636200681356E+00,0.8136737375071054E+00])
-ax.plot(x,y,"b-o",linewidth=2,markersize=5,label="$\sin(x)$")
+ax.plot(x,y,"b-o",linewidth=2,markersize=5,label="$\\sin(x)$")
 ax.legend(loc="best")
 plt.savefig("sinx.png")
 
